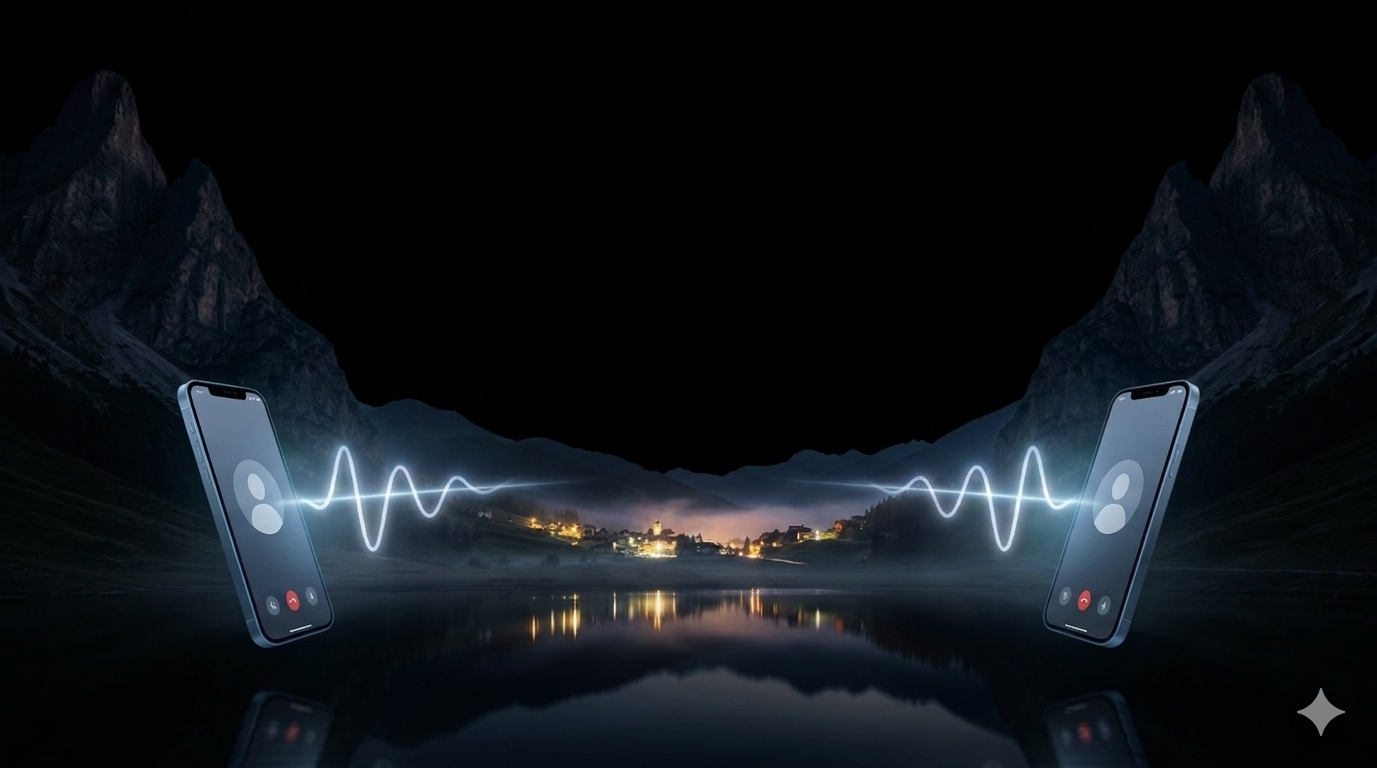
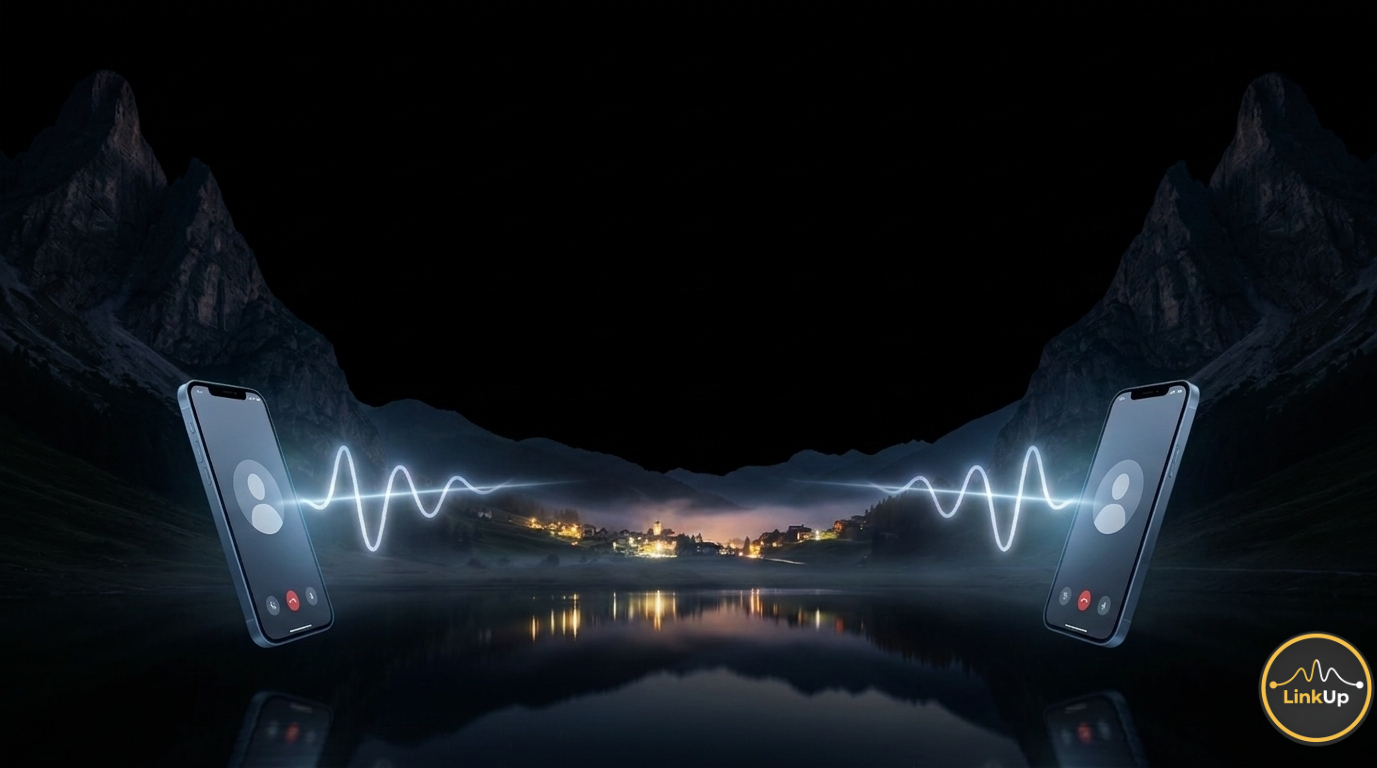
It is completed

Changed region(s): [[0.9056, 0.8125, 0.9993, 0.9688]]

diff --git a/linkup-frontend/src/pages/VideoMeet.jsx b/linkup-frontend/src/pages/VideoMeet.jsx
@@ -16,7 +16,7 @@ import ContentCopyIcon from '@mui/icons-material/ContentCopy';
 import ScreenShareIcon from '@mui/icons-material/ScreenShare';
 import StopScreenShareIcon from '@mui/icons-material/StopScreenShare';
 import ChatIcon from '@mui/icons-material/Chat';
-import CloseIcon from '@mui/icons-material/Close'; // Imported Close Icon
+import CloseIcon from '@mui/icons-material/Close'; 
 import { useNavigate, useParams } from 'react-router-dom';
 import styles from "../styles/videoComponent.module.css";
 import { useAuth } from "../contexts/AuthContext";
@@ -50,7 +50,7 @@ export default function VideoMeet() {
     let [screenAvailable, setScreenAvailable] = useState();
     let [messages, setMessages] = useState([]);
     let [message, setMessage] = useState("");
-    let [newMessages, setNewMessages] = useState(0); // Start at 0
+    let [newMessages, setNewMessages] = useState(0); 
     let [askForUsername, setAskForUsername] = useState(true);
     let [username, setUsername] = useState("");
     const videoRef = useRef([]);
@@ -144,7 +144,10 @@ export default function VideoMeet() {
         for (let id in connections) {
             if (id === socketIdRef.current) continue
 
-            connections[id].addStream(window.localStream)
+            // FIX: Modern WebRTC Track implementation
+            window.localStream.getTracks().forEach(track => {
+                connections[id].addTrack(track, window.localStream);
+            });
 
             connections[id].createOffer().then((description) => {
                 connections[id].setLocalDescription(description)
@@ -169,7 +172,10 @@ export default function VideoMeet() {
             localVideoref.current.srcObject = window.localStream
 
             for (let id in connections) {
-                connections[id].addStream(window.localStream)
+                // FIX: Modern WebRTC Track implementation
+                window.localStream.getTracks().forEach(track => {
+                    connections[id].addTrack(track, window.localStream);
+                });
 
                 connections[id].createOffer().then((description) => {
                     connections[id].setLocalDescription(description)
@@ -207,7 +213,10 @@ export default function VideoMeet() {
         for (let id in connections) {
             if (id === socketIdRef.current) continue
 
-            connections[id].addStream(window.localStream)
+            // FIX: Modern WebRTC Track implementation for screen share
+            window.localStream.getTracks().forEach(track => {
+                connections[id].addTrack(track, window.localStream);
+            });
 
             connections[id].createOffer().then((description) => {
                 connections[id].setLocalDescription(description)
@@ -245,13 +254,14 @@ export default function VideoMeet() {
             }
         }
 
-        connections[socketListId].onaddstream = (event) => {
+        // Modern browsers use ontrack instead of onaddstream
+        connections[socketListId].ontrack = (event) => {
             let videoExists = videoRef.current.find(video => video.socketId === socketListId);
 
             if (videoExists) {
                 setVideos(videos => {
                     const updatedVideos = videos.map(video =>
-                        video.socketId === socketListId ? { ...video, stream: event.stream } : video
+                        video.socketId === socketListId ? { ...video, stream: event.streams[0] } : video
                     );
                     videoRef.current = updatedVideos;
                     return updatedVideos;
@@ -259,7 +269,7 @@ export default function VideoMeet() {
             } else {
                 let newVideo = {
                     socketId: socketListId,
-                    stream: event.stream,
+                    stream: event.streams[0], 
                     autoplay: true,
                     playsinline: true
                 };
@@ -272,12 +282,17 @@ export default function VideoMeet() {
             }
         };
 
+        // FIX: The ultimate track handler with a solid fallback
         if (window.localStream !== undefined && window.localStream !== null) {
-            connections[socketListId].addStream(window.localStream);
+            window.localStream.getTracks().forEach(track => {
+                connections[socketListId].addTrack(track, window.localStream);
+            });
         } else {
             let blackSilence = (...args) => new MediaStream([black(...args), silence()]);
             window.localStream = blackSilence();
-            connections[socketListId].addStream(window.localStream);
+            window.localStream.getTracks().forEach(track => {
+                connections[socketListId].addTrack(track, window.localStream);
+            });
         }
     };
 
@@ -306,7 +321,8 @@ export default function VideoMeet() {
     }
 
     let connectToSocketServer = () => {
-        socketRef.current = io.connect(server_url, { secure: false })
+        // FIX: Removed { secure: false } for Render deployment
+        socketRef.current = io(server_url, { transports: ['websocket', 'polling'] });
 
         socketRef.current.on('signal', gotMessageFromServer)
 
@@ -331,8 +347,13 @@ export default function VideoMeet() {
                     for (let id2 in connections) {
                         if (id2 === socketIdRef.current) continue
 
+                        // FIX: Final legacy addStream replacement
                         try {
-                            connections[id2].addStream(window.localStream)
+                            if(window.localStream) {
+                                window.localStream.getTracks().forEach(track => {
+                                    connections[id2].addTrack(track, window.localStream);
+                                });
+                            }
                         } catch (e) { }
 
                         connections[id2].createOffer().then((description) => {
@@ -386,7 +407,6 @@ export default function VideoMeet() {
     let closeChat = () => setModal(false);
 
     const addMessage = (data, sender, socketIdSender) => {
-        // Prevent duplicate messages: If the server echoes our own message back to us, ignore it.
         if (socketIdSender === socketIdRef.current) {
             return; 
         }
@@ -396,23 +416,19 @@ export default function VideoMeet() {
             { sender: sender, data: data }
         ]);
         
-        // Since we ignored our own messages above, any message that makes it here is from someone else.
         setNewMessages((prevNewMessages) => prevNewMessages + 1);
     };
 
     let sendMessage = () => {
-        if (message.trim() === "") return; // Don't send empty messages
+        if (message.trim() === "") return; 
 
-        // Broadcast to others
         socketRef.current.emit('chat-message', message, username);
         
-        // Add instantly to local state
         setMessages((prevMessages) => [
             ...prevMessages,
             { sender: username, data: message }
         ]);
 
-        // Clear input
         setMessage("");
     }
 
@@ -461,12 +477,10 @@ export default function VideoMeet() {
             :
                 <div className={styles.meetVideoContainer}>
                     
-                    {/* Corrected Chat Modal */}
                     {showModal ? (
                         <div className={styles.chatRoom}>
                             <div className={styles.chatContainer}>
                                 
-                                {/* 1. Header with Close Button */}
                                 <div style={{ display: 'flex', justifyContent: 'space-between', alignItems: 'center', borderBottom: '1px solid rgba(255, 255, 255, 0.1)', paddingBottom: '15px', marginBottom: '20px' }}>
                                     <h1 style={{ margin: 0, padding: 0, border: 'none', color: '#fff', fontSize: '1.4rem' }}>Chat</h1>
                                     <IconButton onClick={closeChat} style={{ color: "white", padding: 0 }}>
@@ -474,7 +488,6 @@ export default function VideoMeet() {
                                     </IconButton>
                                 </div>
 
-                                {/* 2. Message Display */}
                                 <div className={styles.chattingDisplay}>
                                     {messages.length !== 0 ? messages.map((item, index) => {
                                         return (
@@ -486,7 +499,6 @@ export default function VideoMeet() {
                                     }) : <p style={{ color: 'rgba(255,255,255,0.5)', textAlign: 'center' }}>No Messages Yet</p>}
                                 </div>
 
-                                {/* 3. Input Area */}
                                 <div className={styles.chattingArea}>
                                     <TextField 
                                         value={message} 
@@ -510,7 +522,6 @@ export default function VideoMeet() {
                         </div>
                     ) : null}
 
-                    {/* Control Buttons */}
                     <div className={styles.buttonContainers}>
                         <IconButton 
                             onClick={handleVideo} 
@@ -547,7 +558,7 @@ export default function VideoMeet() {
                             <IconButton 
                                 onClick={() => {
                                     setModal(!showModal);
-                                    if(!showModal) setNewMessages(0); // Reset badge when opening chat
+                                    if(!showModal) setNewMessages(0); 
                                 }} 
                                 className={showModal ? styles.controlBtnOff : styles.controlBtn}
                             >
